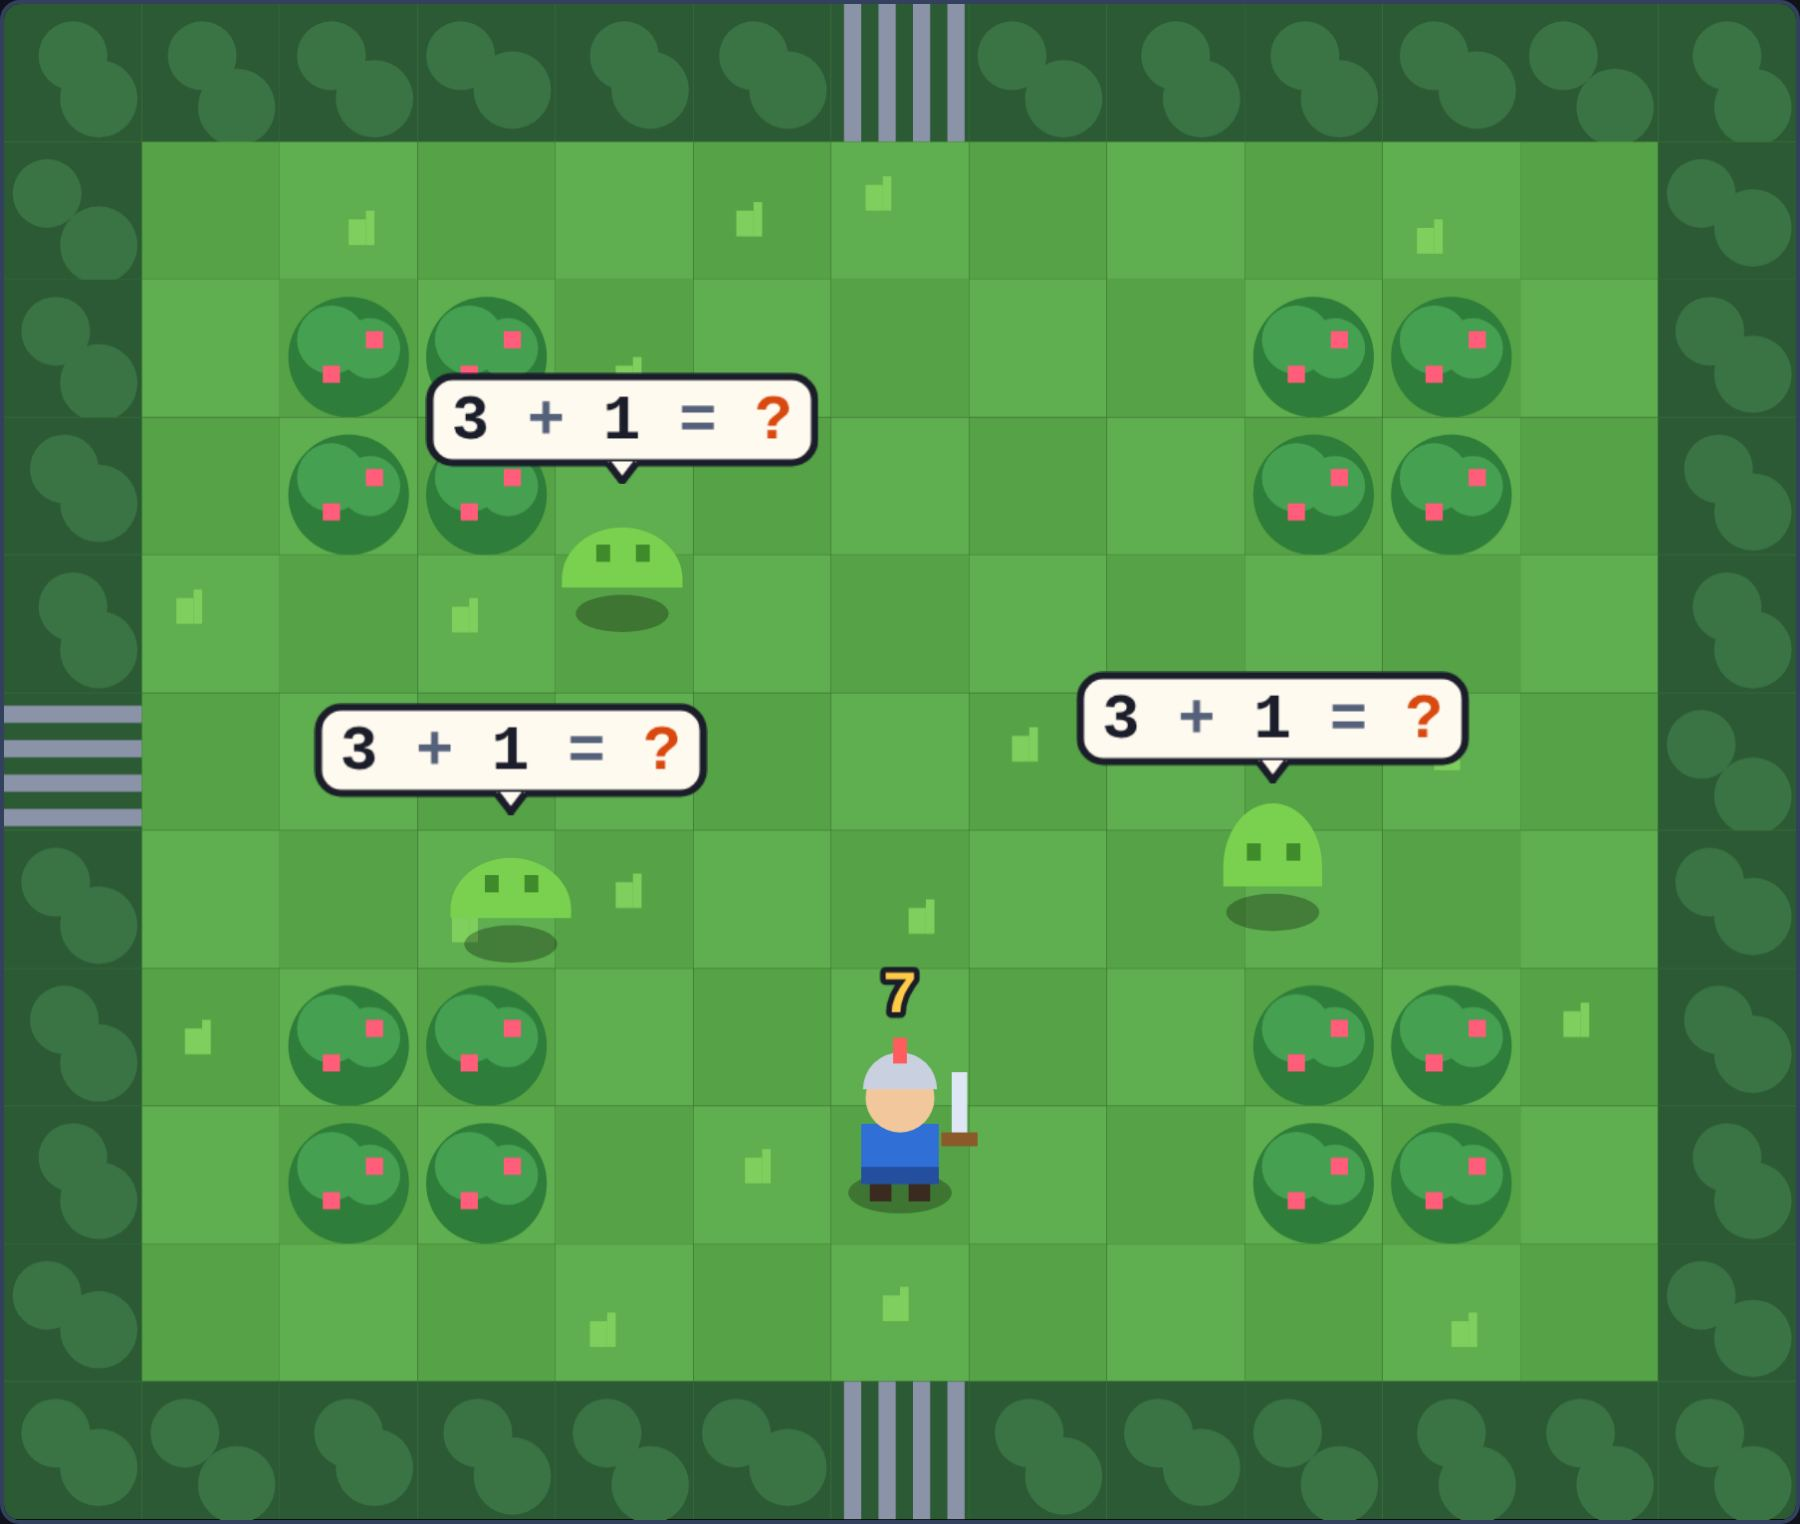
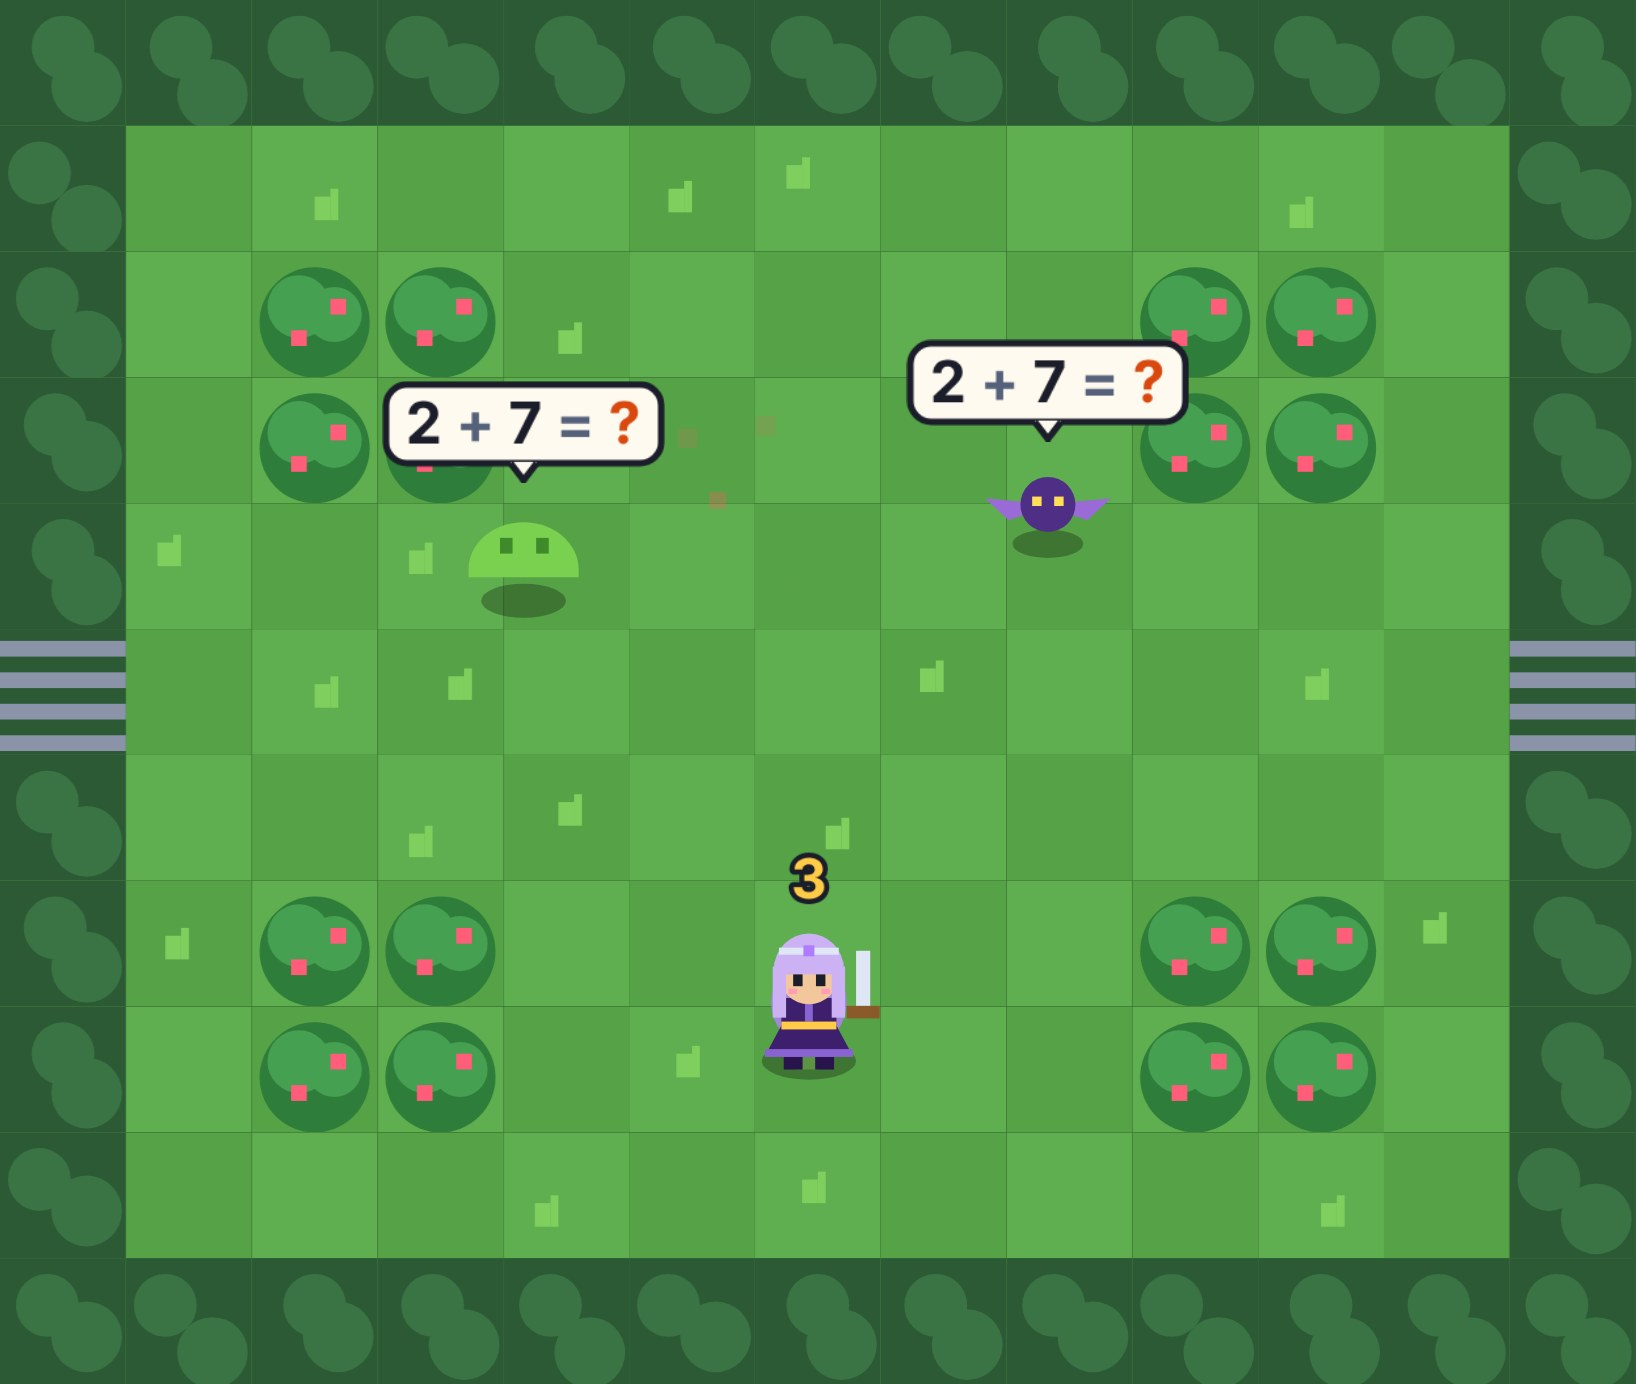
Number Knight: the hero is now a girl with lavender hair and a dark purple outfit; matching Number Rally racer and homepage picture
Claude-Session: https://claude.ai/code/session_012NpEjnDq4nwwyEJQVVU1Gp

diff --git a/games/number-knight/index.html b/games/number-knight/index.html
@@ -1377,15 +1377,38 @@ function drawPlayer(now, o){
     ctx.fillRect(sx, sy - 7, 1.8, 8); ctx.fillStyle = '#8a5a2a'; ctx.fillRect(sx - 1.2, sy, 4.2, 1.6);
   };
   if (p.dir === 'N') drawBladeIdle();
-  // body
-  ctx.fillStyle = '#2f6fd6'; ctx.fillRect(x - 4.5, y - 2 + bob, 9, 7);
-  ctx.fillStyle = '#244f9e'; ctx.fillRect(x - 4.5, y + 3 + bob, 9, 2);
-  ctx.fillStyle = '#3a2a1f'; ctx.fillRect(x - 3.5, y + 5, 2.5, 2); ctx.fillRect(x + 1, y + 5, 2.5, 2);
-  // head + helmet
-  ctx.fillStyle = '#f2c79b'; ctx.beginPath(); ctx.arc(x, y - 5 + bob, 4, 0, 6.3); ctx.fill();
-  ctx.fillStyle = '#c9d1e0'; ctx.beginPath(); ctx.arc(x, y - 6 + bob, 4.3, Math.PI, 0); ctx.fill();
-  ctx.fillStyle = '#ff5d5d'; ctx.fillRect(x - .8, y - 12 + bob, 1.6, 3);
-  if (p.dir !== 'N'){ ctx.fillStyle = '#1b1d2a'; const ex = dx * 1.5; ctx.fillRect(x - 2 + ex, y - 5 + bob, 1.2, 1.4); ctx.fillRect(x + 1 + ex, y - 5 + bob, 1.2, 1.4); }
+  // the knight: a girl with long lavender hair in a dark purple tunic and skirt
+  const HAIR = '#cdb1f5', HAIR_D = '#a385dc', SUIT = '#3d1f6e', SUIT_D = '#29134d', TRIM = '#8a63d2';
+  const hy = y - 5 + bob, ex = dx * 1.4, sway = Math.sin(p.step * .5) * .6;
+  // long hair behind the shoulders
+  if (p.dir !== 'N'){ ctx.fillStyle = HAIR_D; ctx.beginPath(); ctx.ellipse(x - ex * .6, hy + 3.5, 4.8, 5.6, 0, 0, 6.3); ctx.fill(); }
+  // boots
+  ctx.fillStyle = SUIT_D; ctx.fillRect(x - 3.2, y + 4.5, 2.4, 2.6); ctx.fillRect(x + .8, y + 4.5, 2.4, 2.6);
+  // tunic with a flared skirt, gold belt and light purple hem
+  ctx.fillStyle = SUIT; ctx.fillRect(x - 3.5, y - 2 + bob, 7, 4);
+  ctx.beginPath(); ctx.moveTo(x - 3.5, y + 1.5 + bob); ctx.lineTo(x + 3.5, y + 1.5 + bob); ctx.lineTo(x + 5.6, y + 5.4 + bob); ctx.lineTo(x - 5.6, y + 5.4 + bob); ctx.closePath(); ctx.fill();
+  ctx.fillStyle = TRIM; ctx.fillRect(x - 5.6, y + 4.5 + bob, 11.2, 1); ctx.fillRect(x - .5, y - 2 + bob, 1, 3);
+  ctx.fillStyle = '#ffcb47'; ctx.fillRect(x - 3.5, y + 1 + bob, 7, 1);
+  // head
+  ctx.fillStyle = '#f2c79b'; ctx.beginPath(); ctx.arc(x, hy, 3.8, 0, 6.3); ctx.fill();
+  ctx.fillStyle = HAIR;
+  if (p.dir === 'N'){
+    // seen from behind: all hair, falling down her back
+    ctx.beginPath(); ctx.arc(x, hy - .4, 4.3, 0, 6.3); ctx.fill();
+    ctx.beginPath(); ctx.moveTo(x - 4.3, hy); ctx.lineTo(x + 4.3, hy); ctx.lineTo(x + 3.6 + sway, hy + 6.8); ctx.quadraticCurveTo(x + sway, hy + 8.4, x - 3.6 + sway, hy + 6.8); ctx.closePath(); ctx.fill();
+    ctx.fillStyle = HAIR_D; ctx.fillRect(x - .4, hy - 3, .8, 9);
+  } else {
+    // crown of hair, bangs and side locks framing the face
+    ctx.beginPath(); ctx.arc(x, hy - .8, 4.4, Math.PI, 0); ctx.fill();
+    ctx.fillRect(x - 4.4 + ex * .3, hy - 1.6, 8.8, 1.6);
+    ctx.fillRect(x - 4.6, hy - 1, 1.7, 6.5 + (dx > 0 ? 1.5 : 0)); ctx.fillRect(x + 2.9, hy - 1, 1.7, 6.5 + (dx < 0 ? 1.5 : 0));
+    // eyes and rosy cheeks
+    ctx.fillStyle = '#1b1d2a'; ctx.fillRect(x - 2 + ex, hy, 1.2, 1.5); ctx.fillRect(x + .9 + ex, hy, 1.2, 1.5);
+    ctx.fillStyle = '#ff9eb5'; ctx.fillRect(x - 2.6 + ex, hy + 1.8, 1.1, .7); ctx.fillRect(x + 1.6 + ex, hy + 1.8, 1.1, .7);
+  }
+  // silver circlet with a purple gem
+  ctx.fillStyle = '#dfe6f5'; ctx.fillRect(x - 3.8, hy - 3.4, 7.6, .9);
+  if (p.dir !== 'N'){ ctx.fillStyle = '#b07cff'; ctx.fillRect(x - .7 + ex * .3, hy - 3.7, 1.4, 1.4); }
   if (p.dir !== 'N') drawBladeIdle();
   // shield
   if (p.shielding){ ctx.fillStyle = '#6fb6ff'; ctx.strokeStyle = '#dff0ff'; ctx.lineWidth = 1; ctx.beginPath(); ctx.arc(x + dx * 7, y + dy * 6, 6, 0, 6.3); ctx.fill(); ctx.stroke(); }

diff --git a/games/number-rally/index.html b/games/number-rally/index.html
@@ -461,10 +461,10 @@ function renderProblem(p, animate){
 /* ---------- settings ---------- */
 // Racers come from the other Games 4 Ed games. Each one drives a kart in their own color.
 const CHARS = {
-  knight:    {name:'Knight',     color:'#2f6fd6', from:'Number Knight'},
+  knight:    {name:'Knight',     color:'#5a2ea6', from:'Number Knight'},
   dragon:    {name:'Dragon',     color:'#3fbf9f', from:'Number Knight'},
   slime:     {name:'Slime King', color:'#6fd14a', from:'Number Knight'},
-  lich:      {name:'Lich',       color:'#9a6cf0', from:'Number Knight'},
+  lich:      {name:'Lich',       color:'#6c7393', from:'Number Knight'},
   alien:     {name:'Blip',       color:'#ff6f8e', from:'Number Blasters'},
   detective: {name:'Detective',  color:'#d0883e', from:'State Detective'},
 };
@@ -1649,20 +1649,24 @@ function drawHead(id, x, y, r, front){
   const tri = (pts, col) => { c.fillStyle = col; c.beginPath(); pts.forEach(([px, py], i) => i ? c.lineTo(px, py) : c.moveTo(px, py)); c.closePath(); c.fill(); };
   switch (id){
     case 'knight': {
-      ell(x, y - r * 1.15, r * .22, r * .5, '#ff5d5d');
+      // the Number Knight hero: long lavender hair, silver circlet with a purple gem
+      const HAIR = '#cdb1f5', HAIR_D = '#a385dc';
       if (front){
+        ell(x, y + r * .55, r * 1.15, r * 1.05, HAIR_D);
         circ(x, y, r, '#f2c79b');
-        ell(x, y - r * .12, r * 1.06, r * 1.02, '#c9d1e0', Math.PI, 0);
-        c.fillStyle = '#9aa3b8'; c.fillRect(x - r * 1.06, y - r * .2, r * 2.12, r * .2);
-        eyes(r * .25, r * .36, r * .12, '#1b1d2a', false);
-        ell(x, y + r * .62, r * .2, r * .08, '#c0655a');
-        c.fillStyle = '#7a4a2a'; c.fillRect(x - r * 1.0, y, r * .22, r * .7); c.fillRect(x + r * .78, y, r * .22, r * .7);
+        ell(x, y - r * .2, r * 1.08, r * .95, HAIR, Math.PI, 0);
+        c.fillStyle = HAIR; c.fillRect(x - r * 1.08, y - r * .3, r * .38, r * 1.5); c.fillRect(x + r * .7, y - r * .3, r * .38, r * 1.5);
+        c.fillRect(x - r * .8, y - r * .45, r * 1.6, r * .3);
+        eyes(r * .15, r * .36, r * .13, '#1b1d2a', false);
+        ell(x - r * .55, y + r * .5, r * .16, r * .09, '#ff9eb5'); ell(x + r * .55, y + r * .5, r * .16, r * .09, '#ff9eb5');
+        ell(x, y + r * .62, r * .16, r * .07, '#c0655a');
       } else {
-        c.fillStyle = '#7a4a2a'; c.fillRect(x - r * .8, y + r * .1, r * 1.6, r * .75);
-        circ(x, y, r, '#c9d1e0');
-        c.fillStyle = '#9aa3b8'; c.fillRect(x - r, y - r * .15, r * 2, r * .2);
-        c.fillStyle = '#e6ecf8'; c.fillRect(x - r * .08, y - r * .95, r * .16, r * .8);
+        c.fillStyle = HAIR; c.beginPath(); c.moveTo(x - r * 1.05, y); c.lineTo(x + r * 1.05, y); c.lineTo(x + r * .9, y + r * 1.5); c.quadraticCurveTo(x, y + r * 1.8, x - r * .9, y + r * 1.5); c.closePath(); c.fill();
+        circ(x, y - r * .05, r * 1.05, HAIR);
+        c.fillStyle = HAIR_D; c.fillRect(x - r * .06, y - r * .8, r * .12, r * 2.3);
       }
+      c.fillStyle = '#dfe6f5'; c.fillRect(x - r * .95, y - r * .8, r * 1.9, r * .2);
+      if (front) circ(x, y - r * .72, r * .17, '#b07cff');
       break;
     }
     case 'dragon': {

diff --git a/index.html b/index.html
@@ -89,7 +89,7 @@ footer{margin-top:40px;font-size:14px;color:var(--muted)}
       </div>
     </a>
     <a class="game" href="games/number-knight/">
-      <div class="shot"><img src="assets/knight.jpg" alt="A knight in a garden dungeon facing slimes with equations above them" loading="lazy"></div>
+      <div class="shot"><img src="assets/knight.jpg" alt="A knight with lavender hair and a purple tunic in a garden dungeon, facing a slime and a bat with equations above them" loading="lazy"></div>
       <div class="info">
         <h2>Number Knight</h2>
         <p>Explore a dungeon where every monster carries an equation. Set your blade to the missing number, then strike. Three stages and three bosses.</p>
